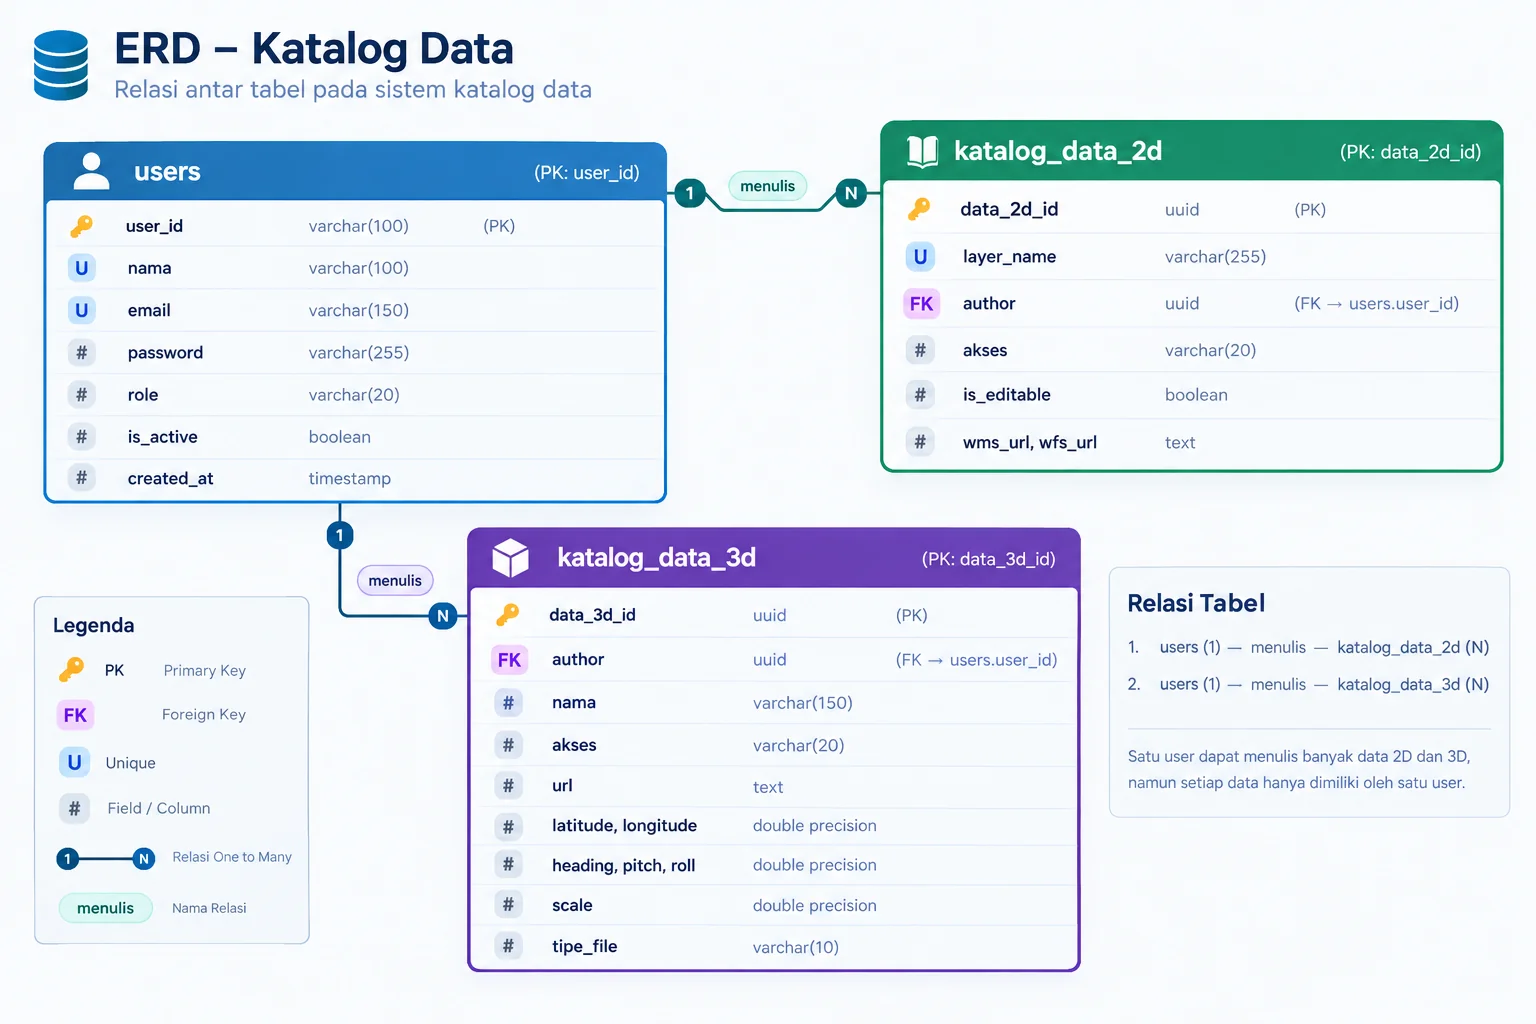
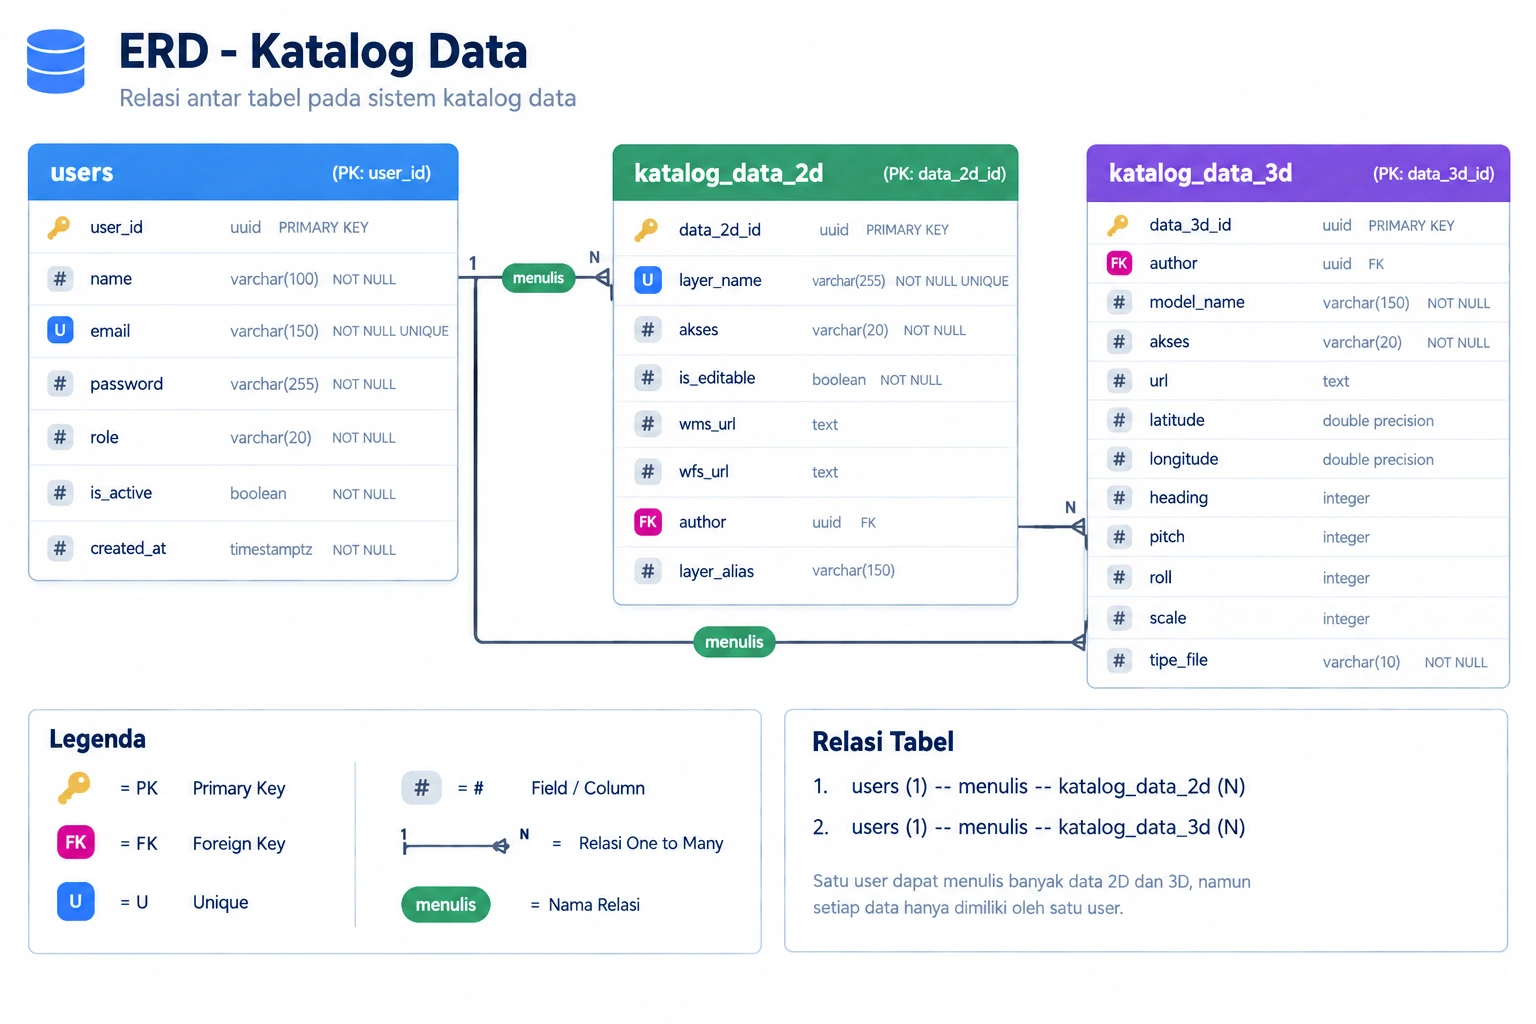
Ganti diagram ERD dengan yang sesuai skema sekarang (#106)
Diagram lama masih memakai nama kolom versi sebelum penggabungan Skema
Prisma: nama untuk users dan katalog_data_3d, yang sekarang bernama name
dan model_name. Diagramnya juga menyebut heading, pitch, roll, dan scale
bertipe double precision padahal tipenya integer, serta belum memuat
kolom layer_alias pada katalog_data_2d.

Diagram baru diperiksa satu per satu sampai perbesaran, bukan sekadar
dilihat sekilas:

- 27 kolom pada ketiga tabel, seluruh nama dan tipenya tepat
- name, bukan nama; model_name, bukan nama
- heading, pitch, roll, scale bertipe integer
- layer_alias ada
- created_at bertipe timestamptz
- kedua garis penghubung mengarah ke tabel yang benar, users ke
  katalog_data_2d dan users ke katalog_data_3d

Daftar kolom pada halaman ini tidak dihapus, tetapi keterangannya diubah.
Sebelumnya daftar itu dipakai sebagai pengganti diagram yang salah.
Sekarang isinya sama dengan diagram, dan berguna untuk menyalin nama
kolom, membaca dengan pembaca layar, atau mencari satu nama tertentu.

Berkasnya dimampatkan dari PNG 1,2 MB menjadi WebP 132 KB dengan kualitas
92, supaya teks kecilnya tetap tajam saat dicetak. Diagram lama 90 KB.

Changed region(s): [[0.0, 0.0312, 1.0, 0.9688], [0.125, 0.75, 0.1875, 0.7812]]

diff --git a/docs/hari-4/praktik-11/skema-database.md b/docs/hari-4/praktik-11/skema-database.md
@@ -135,9 +135,9 @@ Diagram berikut menunjukkan ketiga tabel beserta hubungan di antaranya. Bentukny
 
 ![Diagram relasi tabel database: users, katalog_data_2d, dan katalog_data_3d. Tabel users menyimpan akun pengguna dengan kunci utama user_id. Tabel katalog_data_2d menyimpan metadata layer peta 2D, dan katalog_data_3d menyimpan metadata model 3D. Keduanya menunjuk ke users lewat kolom author.](erd-skema-database.webp)
 
-### Daftar kolom yang sebenarnya
+### Daftar kolom
 
-**Pakai daftar ini untuk nama dan tipe kolom**, bukan tulisan di dalam diagram. Diagramnya berguna untuk melihat hubungan antar tabel, sedangkan daftar berikut yang dibuat `01-schema.sql` dan diharapkan kode aplikasi. Beberapa keterangan pada diagram masih memakai nama lama, yaitu `nama` untuk kedua kolom yang sekarang bernama `name` dan `model_name`.
+Daftar berikut isinya sama dengan diagram di atas, ditulis sebagai teks. Dipakai bila Anda ingin menyalin nama kolomnya, membacanya dengan pembaca layar, atau mencari satu nama tertentu tanpa menyusuri gambar.
 
 | Tabel | Kolom | Tipe dan aturan |
 |---|---|---|
